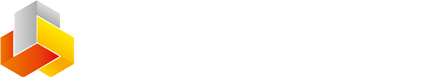
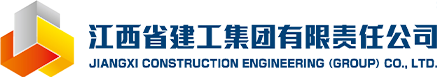
Stand the client marks on a marble plinth instead of boxing each one
Ibrahim's read was right: a white rectangle behind every logo is the sticker-wall
pattern, and it fought a page whose surfaces are otherwise continuous.

The boxes were a workaround, not a choice. The four marks are different kinds of
artwork — CCCC is navy and dies on dark, Jiangxi was white lettering and dies on
light, CRBC ships its own white paper — so no single ground held all three and each
got its own. What removed that constraint: Jiangxi publishes a second, dark variant
for light backgrounds, in the same header block as the white one. With it, all four
read on one light ground.

So the per-logo plates are gone and each group now stands on one continuous light
course, the way a stone band carries an inscription. The dark section and its
cuneiform frieze are kept — that band is doing real work right after the hero.

Details that matter:
- the plinth is pure white, not marble, so CRBC's own white background does not
  show as a brighter patch against warm cream
- the set names invert to ink on it; measured 18.25:1 against the plinth. I set the
  colour at the rule that owns the ground rather than adding an override, after the
  first attempt lost to an equally-specific selector and left the names invisible
- build/build_data.py's check is inverted to match the new ground: it now flags
  LIGHT artwork, which would vanish on the plinth, and names the fix (ask for the
  dark variant). All four currently pass
- verified at 375px: no overflow, logos stack, names stay legible

Changed region(s): [[0.1785, 0.3117, 1.0, 0.6494], [0.1785, 0.7532, 1.0, 0.8831]]

diff --git a/css/style.css b/css/style.css
@@ -15,6 +15,9 @@
   --gold-2:     #D9B65C;   /* highlight */
   --gold-dim:   #8C6E2C;
   --gold-ink:   #6F5520;   /* label gold on marble — passes AA at body size */
+  --plinth:     #FFFFFF;   /* the course the client marks stand on — pure paper,
+                              because several official files ship a white background
+                              of their own and must not show as a brighter patch */
   /* Babylon */
   --lapis:      #1F3A78;   /* Ishtar Gate glazed brick */
   --lapis-2:    #2B4C9B;
@@ -232,19 +235,22 @@ img{max-width:100%; display:block}
 }
 html[lang="en"] .proof .grp-label{letter-spacing:.02em}   /* Arabic letters must stay joined */
 .proof .grp-label::after{content:""; height:1px; flex:1; background:linear-gradient(to left, rgba(217,182,92,.45), transparent)}
-.proof .names{display:flex; flex-wrap:wrap; gap:22px clamp(26px,4vw,56px); align-items:flex-start}
+/* THE PLINTH — one continuous light course carrying the marks, the way a stone band
+   carries an inscription. Not a box per logo: boxes read as stickers laid on top,
+   a course reads as part of the wall. The dark band and its frieze are kept. */
+.proof .names{
+  display:flex; flex-wrap:wrap; align-items:center;
+  gap:clamp(20px,3vw,44px) clamp(28px,4.5vw,64px);
+  background:var(--plinth);
+  padding:clamp(20px,2.6vw,30px) clamp(22px,3vw,36px);
+  border-radius:2px;
+  box-shadow:0 1px 0 rgba(0,0,0,.30), inset 0 0 0 1px rgba(111,85,32,.10);
+}
+/* the plinth is light, so everything standing on it is inked, not ivory */
+.proof .names .en{color:var(--gold-ink)}
 .proof .name{max-width:270px; min-width:0}
 /* the slot: holds a logo when one exists, the set name until then */
 .proof .mark{display:flex; align-items:center; min-height:52px; max-width:100%}
-/* A plate only goes behind artwork that needs one — dark marks drawn for white paper.
-   A logo whose lettering is already white keeps the dark band, because a plate would
-   erase it, and a file carrying its own background needs nothing added. Which of the
-   three a logo is gets measured in build/build_data.py, never assumed here. */
-.proof .mark.has-logo{
-  background:var(--marble); border-radius:2px;
-  padding:12px 16px; width:max-content; max-width:100%;
-  box-shadow:0 1px 0 rgba(0,0,0,.35);
-}
 .proof .name .en{
   font-family:var(--f-en-display); font-weight:400; color:var(--marble);
   letter-spacing:.06em; line-height:1.2;
@@ -264,16 +270,16 @@ html[lang="en"] .proof .grp-label{letter-spacing:.02em}   /* Arabic letters must
 @media (prefers-reduced-motion:reduce){
   .proof .name img.logo-in{transition:none; opacity:1; transform:none}
 }
-.proof .name .ar{display:block; font-size:14.5px; color:var(--on-dark-2); margin-top:8px; line-height:1.6}
+.proof .name .ar{display:block; font-size:14.5px; color:var(--ink); opacity:.78; margin-top:10px; line-height:1.6}
 /* A client's Arabic legal name is the ARABIC edition of that name, not a caption —
    in English the Latin mark already says who they are, so showing both is a leak. */
 html[lang="en"] .proof .name .ar{display:none}
 .proof .grp.lead .name .en{font-size:clamp(23px,2.8vw,34px)}
 .proof .grp.lead .name img{max-height:56px}
 .proof .grp.sec .mark{min-height:40px}
-.proof .grp.sec .name .en{font-size:clamp(17px,1.8vw,22px); color:var(--marble); letter-spacing:.07em}
+.proof .grp.sec .name .en{font-size:clamp(17px,1.8vw,22px); letter-spacing:.07em}
 .proof .grp.sec .name img{max-height:34px}
-.proof .grp.sec .name .ar{font-size:14px; opacity:.85}
+.proof .grp.sec .name .ar{font-size:14px}
 
 
 /* ---------- الخدمات — the nine, as a quiet index ---------- */

diff --git a/index.html b/index.html
@@ -8,7 +8,7 @@
 <link rel="preconnect" href="https://fonts.googleapis.com">
 <link rel="preconnect" href="https://fonts.gstatic.com" crossorigin>
 <link href="https://fonts.googleapis.com/css2?family=Amiri:ital,wght@0,400;0,700;1,400&family=Cormorant+Garamond:ital,wght@0,300;0,400;0,500;1,300&family=IBM+Plex+Sans+Arabic:wght@300;400;500;600&family=IBM+Plex+Sans:wght@300;400;500&display=swap" rel="stylesheet">
-<link rel="stylesheet" href="css/style.css?v=9aa0143a">
+<link rel="stylesheet" href="css/style.css?v=71685720">
 </head>
 <body>
 
@@ -233,8 +233,8 @@
 <script src="data/i18n.js?v=5fb59300"></script>
 <script src="data/services.js?v=0258106d"></script>
 <script src="data/config.js?v=c632f939"></script>
-<script src="assets/clients/manifest.js?v=b7207fe7"></script>
-<script src="js/site.js?v=5d8ee66e"></script>
+<script src="assets/clients/manifest.js?v=91780f1a"></script>
+<script src="js/site.js?v=4d453e59"></script>
 <script>
   // the nine services on the homepage come from the same data the pages are built from
   (list=>{

diff --git a/services/s1.html b/services/s1.html
@@ -7,7 +7,7 @@
 <link rel="preconnect" href="https://fonts.googleapis.com">
 <link rel="preconnect" href="https://fonts.gstatic.com" crossorigin>
 <link href="https://fonts.googleapis.com/css2?family=Amiri:ital,wght@0,400;0,700;1,400&family=Cormorant+Garamond:ital,wght@0,300;0,400;0,500;1,300&family=IBM+Plex+Sans+Arabic:wght@300;400;500;600&family=IBM+Plex+Sans:wght@300;400;500&display=swap" rel="stylesheet">
-<link rel="stylesheet" href="../css/style.css?v=9aa0143a">
+<link rel="stylesheet" href="../css/style.css?v=09bb54ba">
 </head>
 <body>
 
@@ -95,7 +95,7 @@
 <script src="../data/i18n.js?v=5fb59300"></script>
 <script src="../data/services.js?v=0258106d"></script>
 <script src="../data/config.js?v=c632f939"></script>
-<script src="../js/site.js?v=5d8ee66e"></script>
+<script src="../js/site.js?v=4d453e59"></script>
 <script src="../js/services-page.js?v=ff0e1ffc"></script>
 </body>
 </html>

diff --git a/services/s2.html b/services/s2.html
@@ -7,7 +7,7 @@
 <link rel="preconnect" href="https://fonts.googleapis.com">
 <link rel="preconnect" href="https://fonts.gstatic.com" crossorigin>
 <link href="https://fonts.googleapis.com/css2?family=Amiri:ital,wght@0,400;0,700;1,400&family=Cormorant+Garamond:ital,wght@0,300;0,400;0,500;1,300&family=IBM+Plex+Sans+Arabic:wght@300;400;500;600&family=IBM+Plex+Sans:wght@300;400;500&display=swap" rel="stylesheet">
-<link rel="stylesheet" href="../css/style.css?v=9aa0143a">
+<link rel="stylesheet" href="../css/style.css?v=09bb54ba">
 </head>
 <body>
 
@@ -92,7 +92,7 @@
 <script src="../data/i18n.js?v=5fb59300"></script>
 <script src="../data/services.js?v=0258106d"></script>
 <script src="../data/config.js?v=c632f939"></script>
-<script src="../js/site.js?v=5d8ee66e"></script>
+<script src="../js/site.js?v=4d453e59"></script>
 <script src="../js/services-page.js?v=ff0e1ffc"></script>
 </body>
 </html>

diff --git a/services/s3.html b/services/s3.html
@@ -7,7 +7,7 @@
 <link rel="preconnect" href="https://fonts.googleapis.com">
 <link rel="preconnect" href="https://fonts.gstatic.com" crossorigin>
 <link href="https://fonts.googleapis.com/css2?family=Amiri:ital,wght@0,400;0,700;1,400&family=Cormorant+Garamond:ital,wght@0,300;0,400;0,500;1,300&family=IBM+Plex+Sans+Arabic:wght@300;400;500;600&family=IBM+Plex+Sans:wght@300;400;500&display=swap" rel="stylesheet">
-<link rel="stylesheet" href="../css/style.css?v=9aa0143a">
+<link rel="stylesheet" href="../css/style.css?v=09bb54ba">
 </head>
 <body>
 
@@ -94,7 +94,7 @@
 <script src="../data/i18n.js?v=5fb59300"></script>
 <script src="../data/services.js?v=0258106d"></script>
 <script src="../data/config.js?v=c632f939"></script>
-<script src="../js/site.js?v=5d8ee66e"></script>
+<script src="../js/site.js?v=4d453e59"></script>
 <script src="../js/services-page.js?v=ff0e1ffc"></script>
 </body>
 </html>

diff --git a/services/s4.html b/services/s4.html
@@ -7,7 +7,7 @@
 <link rel="preconnect" href="https://fonts.googleapis.com">
 <link rel="preconnect" href="https://fonts.gstatic.com" crossorigin>
 <link href="https://fonts.googleapis.com/css2?family=Amiri:ital,wght@0,400;0,700;1,400&family=Cormorant+Garamond:ital,wght@0,300;0,400;0,500;1,300&family=IBM+Plex+Sans+Arabic:wght@300;400;500;600&family=IBM+Plex+Sans:wght@300;400;500&display=swap" rel="stylesheet">
-<link rel="stylesheet" href="../css/style.css?v=9aa0143a">
+<link rel="stylesheet" href="../css/style.css?v=09bb54ba">
 </head>
 <body>
 
@@ -92,7 +92,7 @@
 <script src="../data/i18n.js?v=5fb59300"></script>
 <script src="../data/services.js?v=0258106d"></script>
 <script src="../data/config.js?v=c632f939"></script>
-<script src="../js/site.js?v=5d8ee66e"></script>
+<script src="../js/site.js?v=4d453e59"></script>
 <script src="../js/services-page.js?v=ff0e1ffc"></script>
 </body>
 </html>

diff --git a/services/s5.html b/services/s5.html
@@ -7,7 +7,7 @@
 <link rel="preconnect" href="https://fonts.googleapis.com">
 <link rel="preconnect" href="https://fonts.gstatic.com" crossorigin>
 <link href="https://fonts.googleapis.com/css2?family=Amiri:ital,wght@0,400;0,700;1,400&family=Cormorant+Garamond:ital,wght@0,300;0,400;0,500;1,300&family=IBM+Plex+Sans+Arabic:wght@300;400;500;600&family=IBM+Plex+Sans:wght@300;400;500&display=swap" rel="stylesheet">
-<link rel="stylesheet" href="../css/style.css?v=9aa0143a">
+<link rel="stylesheet" href="../css/style.css?v=09bb54ba">
 </head>
 <body>
 
@@ -94,7 +94,7 @@
 <script src="../data/i18n.js?v=5fb59300"></script>
 <script src="../data/services.js?v=0258106d"></script>
 <script src="../data/config.js?v=c632f939"></script>
-<script src="../js/site.js?v=5d8ee66e"></script>
+<script src="../js/site.js?v=4d453e59"></script>
 <script src="../js/services-page.js?v=ff0e1ffc"></script>
 </body>
 </html>

diff --git a/services/s6.html b/services/s6.html
@@ -7,7 +7,7 @@
 <link rel="preconnect" href="https://fonts.googleapis.com">
 <link rel="preconnect" href="https://fonts.gstatic.com" crossorigin>
 <link href="https://fonts.googleapis.com/css2?family=Amiri:ital,wght@0,400;0,700;1,400&family=Cormorant+Garamond:ital,wght@0,300;0,400;0,500;1,300&family=IBM+Plex+Sans+Arabic:wght@300;400;500;600&family=IBM+Plex+Sans:wght@300;400;500&display=swap" rel="stylesheet">
-<link rel="stylesheet" href="../css/style.css?v=9aa0143a">
+<link rel="stylesheet" href="../css/style.css?v=09bb54ba">
 </head>
 <body>
 
@@ -95,7 +95,7 @@
 <script src="../data/i18n.js?v=5fb59300"></script>
 <script src="../data/services.js?v=0258106d"></script>
 <script src="../data/config.js?v=c632f939"></script>
-<script src="../js/site.js?v=5d8ee66e"></script>
+<script src="../js/site.js?v=4d453e59"></script>
 <script src="../js/services-page.js?v=ff0e1ffc"></script>
 </body>
 </html>

diff --git a/services/s7.html b/services/s7.html
@@ -7,7 +7,7 @@
 <link rel="preconnect" href="https://fonts.googleapis.com">
 <link rel="preconnect" href="https://fonts.gstatic.com" crossorigin>
 <link href="https://fonts.googleapis.com/css2?family=Amiri:ital,wght@0,400;0,700;1,400&family=Cormorant+Garamond:ital,wght@0,300;0,400;0,500;1,300&family=IBM+Plex+Sans+Arabic:wght@300;400;500;600&family=IBM+Plex+Sans:wght@300;400;500&display=swap" rel="stylesheet">
-<link rel="stylesheet" href="../css/style.css?v=9aa0143a">
+<link rel="stylesheet" href="../css/style.css?v=09bb54ba">
 </head>
 <body>
 
@@ -95,7 +95,7 @@
 <script src="../data/i18n.js?v=5fb59300"></script>
 <script src="../data/services.js?v=0258106d"></script>
 <script src="../data/config.js?v=c632f939"></script>
-<script src="../js/site.js?v=5d8ee66e"></script>
+<script src="../js/site.js?v=4d453e59"></script>
 <script src="../js/services-page.js?v=ff0e1ffc"></script>
 </body>
 </html>

diff --git a/services/s8.html b/services/s8.html
@@ -7,7 +7,7 @@
 <link rel="preconnect" href="https://fonts.googleapis.com">
 <link rel="preconnect" href="https://fonts.gstatic.com" crossorigin>
 <link href="https://fonts.googleapis.com/css2?family=Amiri:ital,wght@0,400;0,700;1,400&family=Cormorant+Garamond:ital,wght@0,300;0,400;0,500;1,300&family=IBM+Plex+Sans+Arabic:wght@300;400;500;600&family=IBM+Plex+Sans:wght@300;400;500&display=swap" rel="stylesheet">
-<link rel="stylesheet" href="../css/style.css?v=9aa0143a">
+<link rel="stylesheet" href="../css/style.css?v=09bb54ba">
 </head>
 <body>
 
@@ -91,7 +91,7 @@
 <script src="../data/i18n.js?v=5fb59300"></script>
 <script src="../data/services.js?v=0258106d"></script>
 <script src="../data/config.js?v=c632f939"></script>
-<script src="../js/site.js?v=5d8ee66e"></script>
+<script src="../js/site.js?v=4d453e59"></script>
 <script src="../js/services-page.js?v=ff0e1ffc"></script>
 </body>
 </html>

diff --git a/services/s9.html b/services/s9.html
@@ -7,7 +7,7 @@
 <link rel="preconnect" href="https://fonts.googleapis.com">
 <link rel="preconnect" href="https://fonts.gstatic.com" crossorigin>
 <link href="https://fonts.googleapis.com/css2?family=Amiri:ital,wght@0,400;0,700;1,400&family=Cormorant+Garamond:ital,wght@0,300;0,400;0,500;1,300&family=IBM+Plex+Sans+Arabic:wght@300;400;500;600&family=IBM+Plex+Sans:wght@300;400;500&display=swap" rel="stylesheet">
-<link rel="stylesheet" href="../css/style.css?v=9aa0143a">
+<link rel="stylesheet" href="../css/style.css?v=09bb54ba">
 </head>
 <body>
 
@@ -90,7 +90,7 @@
 <script src="../data/i18n.js?v=5fb59300"></script>
 <script src="../data/services.js?v=0258106d"></script>
 <script src="../data/config.js?v=c632f939"></script>
-<script src="../js/site.js?v=5d8ee66e"></script>
+<script src="../js/site.js?v=4d453e59"></script>
 <script src="../js/services-page.js?v=ff0e1ffc"></script>
 </body>
 </html>

diff --git a/js/site.js b/js/site.js
@@ -135,9 +135,6 @@
         img.src = UP + src;
         const show = () => {
           mark.replaceChildren(img);
-          // the plate is the ARTWORK's requirement, measured at build time: dark marks
-          // need light paper, white marks would be erased by it
-          if (entry.plate) mark.classList.add('has-logo');
           // Placement, not alteration: sizing every mark to one HEIGHT makes a 5.7:1
           // wordmark dominate and a 2.1:1 stacked emblem shrink to nothing. Scale toward
           // equal optical AREA so they read as peers. The artwork itself is untouched.
